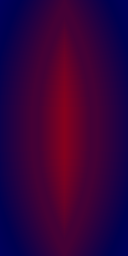
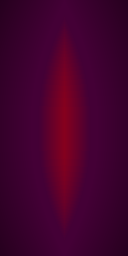
Sunky 2 side art the right way up; title glow fades to wine, not blue
Claude-Session: https://claude.ai/code/session_01SgrqsS3rHPSjnzkQJqDqVv

diff --git a/engine/butterscotch/src/gl/gl_renderer.c b/engine/butterscotch/src/gl/gl_renderer.c
@@ -2836,9 +2836,9 @@ static SunkySideArt* sunkyLoadArt(FileSystem* fs, const char* name) {
         for (int y = 0; y < h; y++) for (int c = 0; c < 3; c++) sum[c] += pixels[((size_t) y * w + col) * 4 + c];
         for (int c = 0; c < 3; c++) (side == 0 ? a->edgeL : a->edgeR)[c] = (uint8_t) (sum[c] / (uint32_t) h);
     }
-    // GL keeps rows bottom-up, the same way the surfaces are kept, so flip the picture
+    // the game's surfaces keep their rows top-down, as the file does, so no flip
     uint8_t* flipped = malloc((size_t) w * (size_t) h * 4);
-    for (int y = 0; y < h; y++) memcpy(flipped + (size_t) y * w * 4, pixels + (size_t) (h - 1 - y) * w * 4, (size_t) w * 4);
+    memcpy(flipped, pixels, (size_t) w * (size_t) h * 4);
     stbi_image_free(pixels);
     GLint prevTex = 0, prevFb = 0;
     glGetIntegerv(GL_TEXTURE_BINDING_2D, &prevTex);
@@ -2908,8 +2908,9 @@ bool GLRenderer_sunkyDrawSideArtOnScreen(Renderer* renderer, FileSystem* fs, con
     glDisable(GL_SCISSOR_TEST);
     glBindFramebuffer(GL_READ_FRAMEBUFFER, a->fbo);
     glBindFramebuffer(GL_DRAW_FRAMEBUFFER, fbo);
-    if (lw > 0) glBlitFramebuffer(half - lw, 0, half, a->h, xl - (int32_t) ((float) lw * sc + 0.5f), y0, xl, y0 + vh, GL_COLOR_BUFFER_BIT, GL_NEAREST);
-    if (rw > 0) glBlitFramebuffer(half, 0, half + rw, a->h, xr, y0, xr + (int32_t) ((float) rw * sc + 0.5f), y0 + vh, GL_COLOR_BUFFER_BIT, GL_NEAREST);
+    // the screen keeps its rows bottom-up, so the art goes on upside-down-flipped (top row at the top)
+    if (lw > 0) glBlitFramebuffer(half - lw, 0, half, a->h, xl - (int32_t) ((float) lw * sc + 0.5f), y0 + vh, xl, y0, GL_COLOR_BUFFER_BIT, GL_NEAREST);
+    if (rw > 0) glBlitFramebuffer(half, 0, half + rw, a->h, xr, y0 + vh, xr + (int32_t) ((float) rw * sc + 0.5f), y0, GL_COLOR_BUFFER_BIT, GL_NEAREST);
     glBindFramebuffer(GL_FRAMEBUFFER, (GLuint) prevFb);
     if (scissor) glEnable(GL_SCISSOR_TEST);
     return true;
